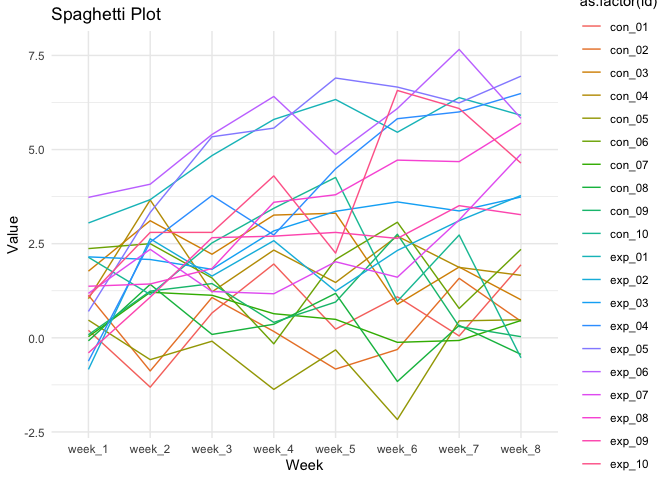
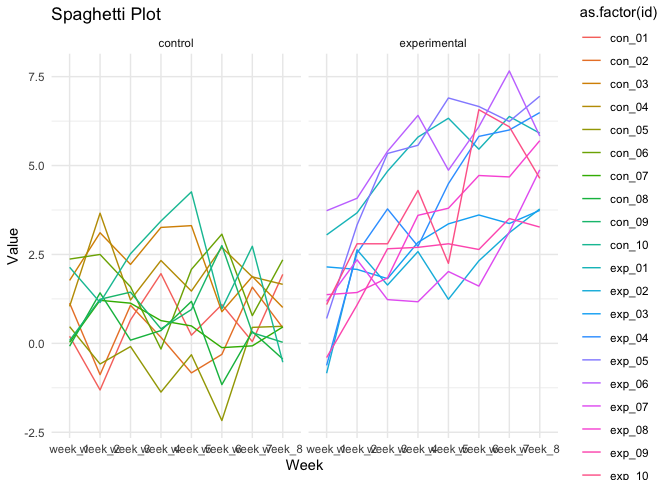
make comments to the problem 2 and 3

diff --git a/p8105_hw5_sc5352.md b/p8105_hw5_sc5352.md
@@ -204,15 +204,27 @@ unlist_tidydata =
 # draw the plot
 df = 
   as.data.frame(unlist_tidydata) |>
-  na.omit()
+  na.omit() |>
+  mutate(
+    arm = substr(id, 1, 3),
+    arm = case_match(
+             arm,
+             "con" ~ "control",
+             "exp" ~ "experimental"
+           ))
 
 ggplot(df, aes(x = week, y = value, group = as.factor(id), color = as.factor(id))) +
   geom_line() +
   labs(x = "Week", y = "Value", title = "Spaghetti Plot") +
-  theme_minimal()
+  theme_minimal() +
+  facet_grid(~arm)
 ```
 
-![](p8105_hw5_sc5352_files/figure-gfm/unnamed-chunk-2-1.png)<!-- -->
+![](p8105_hw5_sc5352_files/figure-gfm/unnamed-chunk-2-1.png)<!-- --> The
+overall values for the experimental group are higher than the control
+group.  
+The values for the experimental group are increasing as the time goes
+on, but the values for the control group do not change much.
 
 #### Problem 3
 
@@ -243,8 +255,6 @@ sim_results = bind_rows(output)
 
 ``` r
 set.seed(2)
-
-# Design elements
 
 mu_values = c(0, 1, 2, 3, 4, 5, 6)
 
@@ -294,4 +304,8 @@ ggplot() +
   labs(title = "Average Estimated Mu vs. True Mean", x = "True Mean (Mu)", y = "Average Estimated Mu")
 ```
 
-![](p8105_hw5_sc5352_files/figure-gfm/unnamed-chunk-4-2.png)<!-- -->
+![](p8105_hw5_sc5352_files/figure-gfm/unnamed-chunk-4-2.png)<!-- --> The
+power increases as the effect size increases and close to one.  
+The average estimated across tests for which the null is rejected
+approximately equal to the true value of as the true mean increases, but
+there is a large division when the equals to one.
